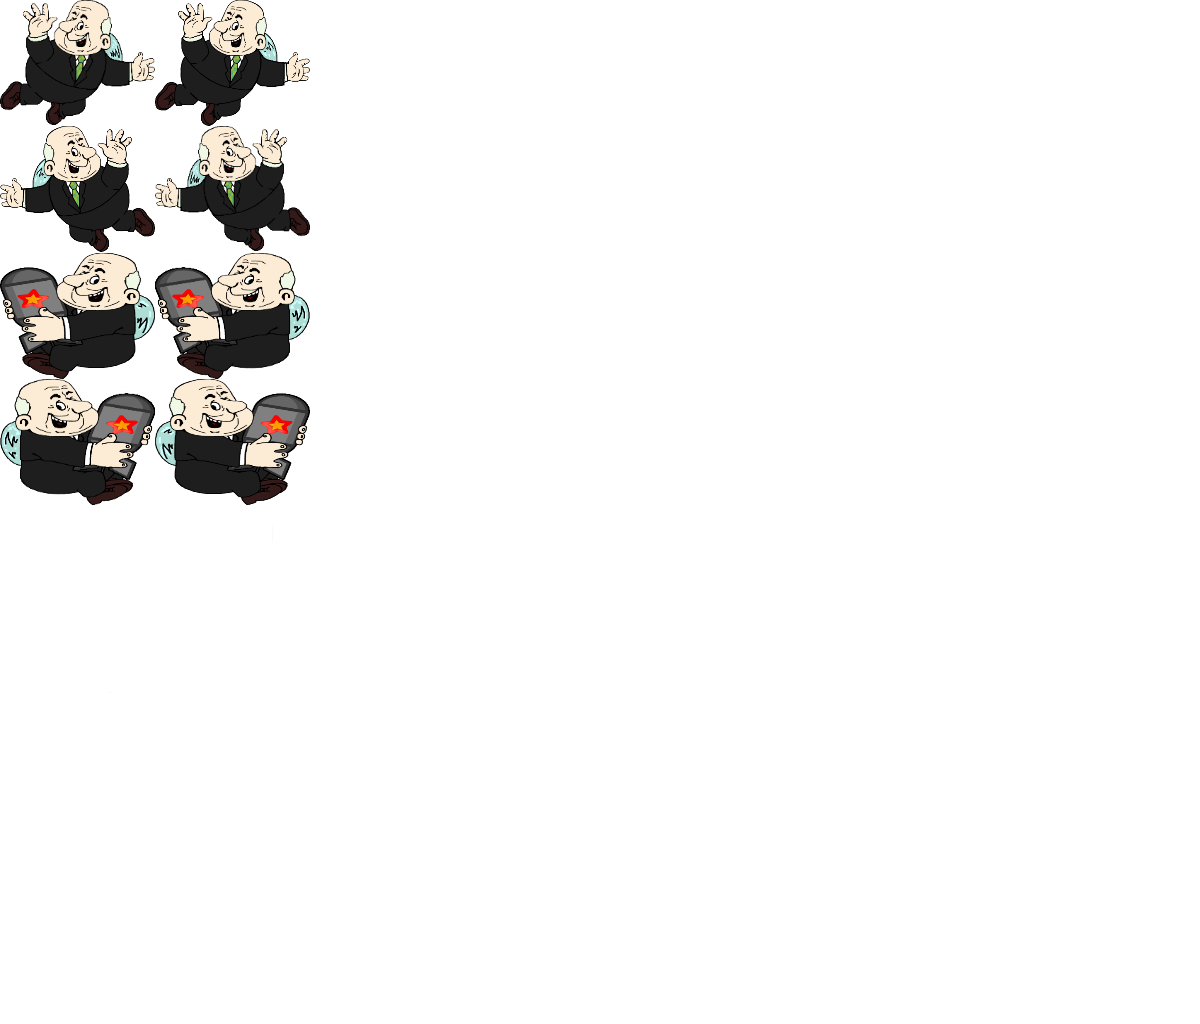
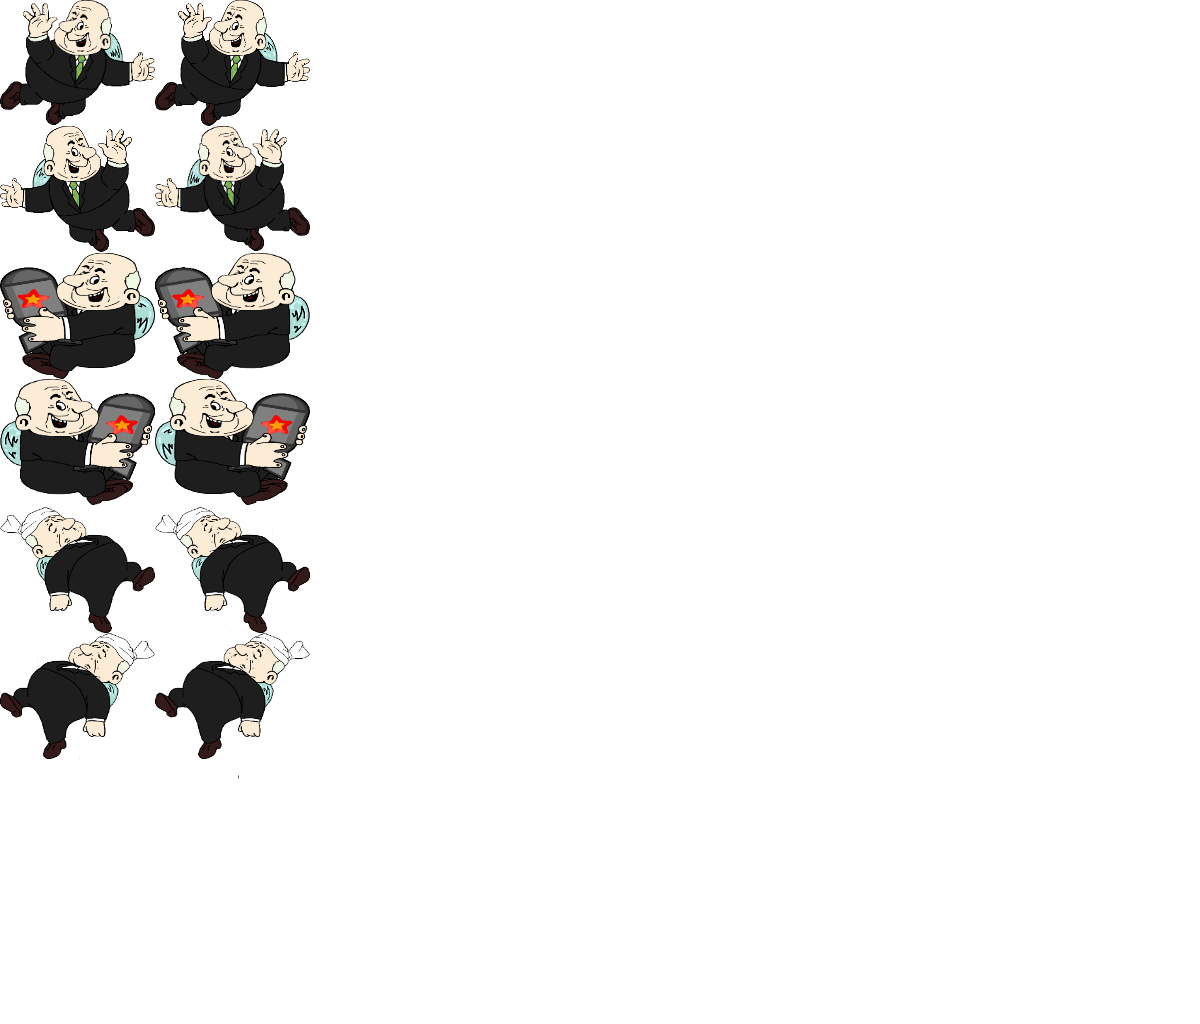
Van update 2

Changed region(s): [[0.0, 0.5, 0.2775, 0.75]]

diff --git a/GameField.py b/GameField.py
@@ -1,15 +1,19 @@
 import pygame
 from Bomb import *
 from random import randrange
+from Helicopter import *
+from Ship import *
 
 class GameField:
-    def __init__(self, player, bomb_group, cuba, sover_label, lives_label, lose_callback):
+    def __init__(self, player, bomb_group, helic_group, cuba, ship, sover_label, lives_label, lose_callback):
         self.player = player
         self.bombs = bomb_group
+        self.helics = helic_group
         self.cuba = cuba
         self.sover_label = sover_label
         self.lives_labes = lives_label
         self.lose = lose_callback
+        self.ship = ship
 
         self.state = "game"
 
@@ -28,13 +32,19 @@ class GameField:
         self.bombs_count = 7
         self.small_timer = 0
         self.main_timer = 0
+        self.helic_timer = 100
+        self.helic_time = 200
         self.small_bomb_time = 150
         self.main_bomb_time = 444
         self.has_main_bomb = True
 
         self.sover = 100
         self.lives = 5
-        self.sover_decr_speed = .7
+        self.sover_decr_speed = 0.04
+
+        self.has_ship = False
+        self.ship_timer = 350
+        self.ship_time = 400
 
     def update(self, *events):
         if self.state == "game":
@@ -55,11 +65,29 @@ class GameField:
                         self.player.bomb_type = bomb.type
                         bomb.kill()
                         break
+            
+            if self.player.state != "damaged":
+                for helic in self.helics.sprites():
+                    if self.player.damage_rect.colliderect(helic.rect):
+                        self.player.set_state("damaged")
+                        helic.damage()
+                        self.lives -= 1
+                        self.lives_labes.delete_life()
+                        break
 
             if self.player.get_state() == "bomb":
                 if self.player.rect.colliderect(self.cuba.sprites()[0].rect):
                     self.sover += 5 * (self.player.bomb_type+1)
+                    if self.sover > 100: self.sover = 100
                     self.player.set_state("empty")
+
+                    if self.has_ship:
+                        self.ship.sprites()[0].run_away()
+                        self.has_ship = False
+
+            if self.has_ship:
+                if self.ship.sprites()[0].rect.colliderect(self.cuba.sprites()[0].rect):
+                    self.sover = 0
 
             if not self.has_main_bomb:
                 self.main_timer += 1
@@ -77,11 +105,27 @@ class GameField:
                 self.small_timer = 0
 
             self.sover -= self.sover_decr_speed
-            self.sover_label.text = str(int(self.sover))
+            self.sover_label.set_level(self.sover)
 
-            if self.sover < 1:
+            if self.sover < 1 or self.lives < 1:
                 self.state = "lost"
                 self.lose()
+
+            self.helic_timer += 1
+            if self.helic_timer > self.helic_time:
+                self.helic_timer = 0
+                rnd_speed = randrange(2, 6)
+                rnd_height = randrange(20, 600)
+                Helicopter(rnd_height, rnd_speed, self.helics)
+
+            if not self.has_ship:
+                self.ship_timer += 1
+                if self.ship_timer > self.ship_time:
+                    self.ship_timer = 0
+                    self.has_ship = True
+                    
+                    rnd_ship_y = randrange(-50, 320)
+                    Ship((-250, rnd_ship_y), (822, 198), self.ship)
 
             
 

diff --git a/Player.py b/Player.py
@@ -6,6 +6,7 @@ class Player(pygame.sprite.Sprite):
         super().__init__(*groups)
 
         self.rect = pygame.rect.Rect(pos, (155, 126))
+        self.damage_rect = pygame.rect.Rect((pos[0]+37, pos[1]+33), (80, 60))
         self.image = pygame.Surface(self.rect.size, pygame.SRCALPHA, 32)
 
         atlas = pygame.image.load("img/player_atlas.png")
@@ -13,11 +14,15 @@ class Player(pygame.sprite.Sprite):
         empty_left = Animation(5, atlas, 126, 155, 126, 2)
         bomb_left = Animation(5, atlas, 253, 155, 126, 2)
         bomb_right = Animation(5, atlas, 379, 155, 126, 2)
+        damaged_right = Animation(5, atlas, 507, 155, 126, 2)
+        damaged_left = Animation(5, atlas, 633, 155, 126, 2)
         self.anim_manager = AnimationManager({
             "empty_left": empty_left,
             "empty_right": empty_right,
             "bomb_left": bomb_left,
-            "bomb_right": bomb_right
+            "bomb_right": bomb_right,
+            "damaged_left": damaged_left,
+            "damaged_right": damaged_right
         })
         self.anim_manager.set_anim("empty_right")
 
@@ -29,6 +34,9 @@ class Player(pygame.sprite.Sprite):
         self.state = "empty"
         self.bomb_type = None
         self.dir = "right"
+
+        self.damaged_timer = 0
+        self.damaged_time = 40
 
     def update(self, *events):
         self.direction.x = 0
@@ -48,7 +56,7 @@ class Player(pygame.sprite.Sprite):
             if event.type == pygame.MOUSEBUTTONDOWN:
                 print(pygame.mouse.get_pos())
 
-            if event.type == pygame.KEYDOWN:
+            if event.type == pygame.KEYDOWN and self.state != "damaged":
                 if event.key == pygame.K_LEFT:
                     self.dir = "left"
                     if self.state == "empty":
@@ -63,13 +71,22 @@ class Player(pygame.sprite.Sprite):
                     elif self.state == "bomb":
                         self.anim_manager.set_anim("bomb_right")
 
-        if self.direction.length() > 0:
-            self.direction = self.direction.normalize()
-        self.x += self.direction.x * self.speed
-        self.y += self.direction.y * self.speed
+        if self.state != "damaged":
+            if self.direction.length() > 0:
+                self.direction = self.direction.normalize()
+            self.x += self.direction.x * self.speed
+            self.y += self.direction.y * self.speed
 
+        self.damage_rect.x += self.x-self.rect.x
+        self.damage_rect.y += self.y-self.rect.y
         self.rect.x = self.x
         self.rect.y = self.y
+
+        if self.state == "damaged":
+            self.damaged_timer += 1
+            if self.damaged_timer >= self.damaged_time:
+                self.damaged_timer = 0
+                self.set_state("empty")
 
         self.anim_manager.update()
 
@@ -97,3 +114,8 @@ class Player(pygame.sprite.Sprite):
                 self.anim_manager.set_anim("bomb_right")
             if self.dir == "left":
                 self.anim_manager.set_anim("bomb_left")
+        elif self.state == "damaged":
+            if self.dir == "right":
+                self.anim_manager.set_anim("damaged_right")
+            if self.dir == "left":
+                self.anim_manager.set_anim("damaged_left")

diff --git a/Frames.py b/Frames.py
@@ -5,6 +5,8 @@ from Player import *
 from Bomb import *
 from GameField import *
 from Cuba import *
+from Helicopter import *
+from Ship import *
 
 class Frame:
     def __init__(self):
@@ -169,8 +171,10 @@ class GameFrame(Frame):
         self.gui_group = pygame.sprite.Group()
         Label((10, 20), "Суверенитет: ", self.gui_group)
         Label((10, 60), "Пуговицы: ", self.gui_group)
-        self.sover_label = Label((200, 20), "100%", self.gui_group)
-        self.lives_label = Label((200, 60), "5", self.gui_group)
+        self.sover_bar = ProgressBar((200, 20), 100, self.gui_group)
+        self.lives_bar = HealthBar((200, 60), 5, self.gui_group)
+        #self.sover_label = Label((200, 20), "100%", self.gui_group)
+        #self.lives_label = Label((200, 60), "5", self.gui_group)
 
         self.player_group = pygame.sprite.Group()
         Player((100, 100), self.player_group)
@@ -180,14 +184,19 @@ class GameFrame(Frame):
         self.cuba_group = pygame.sprite.Group()
         Cuba(self.cuba_group)
 
-        self.game_field = GameField(self.player_group.sprites()[0], self.bombs_group, self.cuba_group, self.sover_label, self.lives_label, self.lose)
+        self.helicopters_group = pygame.sprite.Group()
+        self.ship_group = pygame.sprite.Group()
+
+        self.game_field = GameField(self.player_group.sprites()[0], self.bombs_group, self.helicopters_group, self.cuba_group, self.ship_group, self.sover_bar, self.lives_bar, self.lose)
 
         self.append_many_widgets((
             self.background_group,
-            self.gui_group,
+            self.ship_group,
             self.cuba_group,
             self.bombs_group,
             self.player_group,
+            self.helicopters_group,
+            self.gui_group,
         ))
         self.updatable.append(self.game_field)
 

diff --git a/Helicopter.py b/Helicopter.py
@@ -1,7 +1,51 @@
 import pygame
+from Animation import *
 
 class Helicopter(pygame.sprite.Sprite):
-    def __init__(self, height, *groups):
+    def __init__(self, height, speed, *groups):
         super().__init__(*groups)
 
+        self.rect = pygame.rect.Rect((165, height), (165, 53))
+        self.image = pygame.Surface(self.rect.size, pygame.SRCALPHA, 32)
+
+        helic_atlas = pygame.image.load("img/helic_atlas.png")
+        fly_anim = Animation(2, helic_atlas, 0, 165, 53, 4)
+        damage = Animation(100, helic_atlas, 53, 165, 53, 1)
+        self.anim_manager = AnimationManager({
+            "fly": fly_anim,
+            "damage": damage
+        })
+        self.anim_manager.set_anim("fly")
+
+        self.x, self.y = -165, height
+        self.speed = speed
+
+        self.state = "fly"
+        self.damage_timer = 0
+        self.damage_time = 20
+
+    def update(self, *events):
+        if self.state == "fly":
+            self.x += self.speed
+            self.rect.x = self.x
+
+            if self.x > 750+165:
+                self.kill()
+
+        if self.state == "damage":
+            self.damage_timer += 1
+            if self.damage_timer > self.damage_time:
+                self.kill()
+
+        self.anim_manager.update()
         
+        self.draw()
+
+    def damage(self):
+        self.state = "damage"
+        self.anim_manager.set_anim("damage")
+
+    def draw(self):
+        self.image.fill((0, 0, 0, 0))
+
+        self.image.blit(*self.anim_manager.get_anim_frame())

diff --git a/Widgets.py b/Widgets.py
@@ -239,6 +239,51 @@ class SliderWithValue(pygame.sprite.Sprite):
         
         self.draw()
 
+class ProgressBar(pygame.sprite.Sprite):
+    def __init__(self, pos, level, *groups):
+        super().__init__(*groups)
+
+        self.level = level
+        self.rect = pygame.rect.Rect(pos, (level * 2.5, 30))
+        self.image = pygame.Surface(self.rect.size, pygame.SRCALPHA, 32)
+
+    def set_level(self, level):
+        self.level = level
+
+    def update(self, *events):
+        self.draw()
+
+    def draw(self):
+        self.image.fill((0, 0, 0, 0))
+
+        self.image.fill((240, 12, 12), pygame.rect.Rect((0, 0), (self.level * 2.5, 30)))
+
+class HealthBar(pygame.sprite.Sprite):
+    def __init__(self, pos, lives, *groups):
+        super().__init__(*groups)
+
+        self.inner_group = pygame.sprite.Group()
+        self.rect = pygame.rect.Rect(pos, (250, 30))
+        self.image = pygame.Surface(self.rect.size, pygame.SRCALPHA, 32)
+        self.last_life = lives-1
+
+        self.lives = []
+
+        for i in range(lives):
+            self.lives += [Image((i*50, 0), (30, 30), "img/pug.png", self.inner_group)]
+
+    def delete_life(self):
+        self.lives[self.last_life].kill()
+        self.last_life -= 1
+
+    def update(self, *events):
+        self.inner_group.update(*events)
+
+        self.draw()
+
+    def draw(self):
+        self.image.fill((0, 0, 0, 0))
+        self.inner_group.draw(self.image)
 
 class Catcher:
     def __init__(self, code, callback):

diff --git a/Ship.py b/Ship.py
@@ -1,5 +1,46 @@
 import pygame
 
 class Ship(pygame.sprite.Sprite):
-    def __init__(self, pos):
-        pass
+    def __init__(self, pos, dest_pos, *groups):
+        super().__init__(*groups)
+
+        self.spawn_pos = (pos[0] + 125, pos[1] + 63)
+        self.dest_pos = dest_pos
+
+        self.vec = pygame.math.Vector2((self.dest_pos[0] - self.spawn_pos[0], self.dest_pos[1] - self.spawn_pos[1]))
+        self.vec = self.vec.normalize()
+
+        self.rect = pygame.rect.Rect(pos, (250, 126))
+        self.image = pygame.Surface(self.rect.size, pygame.SRCALPHA, 32)
+
+        self.texture = pygame.image.load("img/ship.png")
+
+        self.x, self.y = pos[0], pos[1]
+        self.speed = 2
+        
+        self.state = "fight"
+
+    def update(self, *events):
+        self.x += self.vec.x * self.speed
+        self.y += self.vec.y * self.speed
+        self.rect.x = self.x
+        self.rect.y = self.y
+
+        if self.x < -250:
+            self.kill()
+
+        self.draw()
+
+    def run_away(self):
+        self.speed = 8
+        self.vec = pygame.math.Vector2((self.spawn_pos[0]-self.dest_pos[0], self.spawn_pos[1]-self.dest_pos[1]))
+        self.vec = self.vec.normalize()
+
+        self.texture = pygame.transform.flip(self.texture, True, False)
+
+        self.state = "run"
+
+    def draw(self):
+        self.image.fill((0, 0, 0, 0))
+
+        self.image.blit(self.texture, (0, 0))
